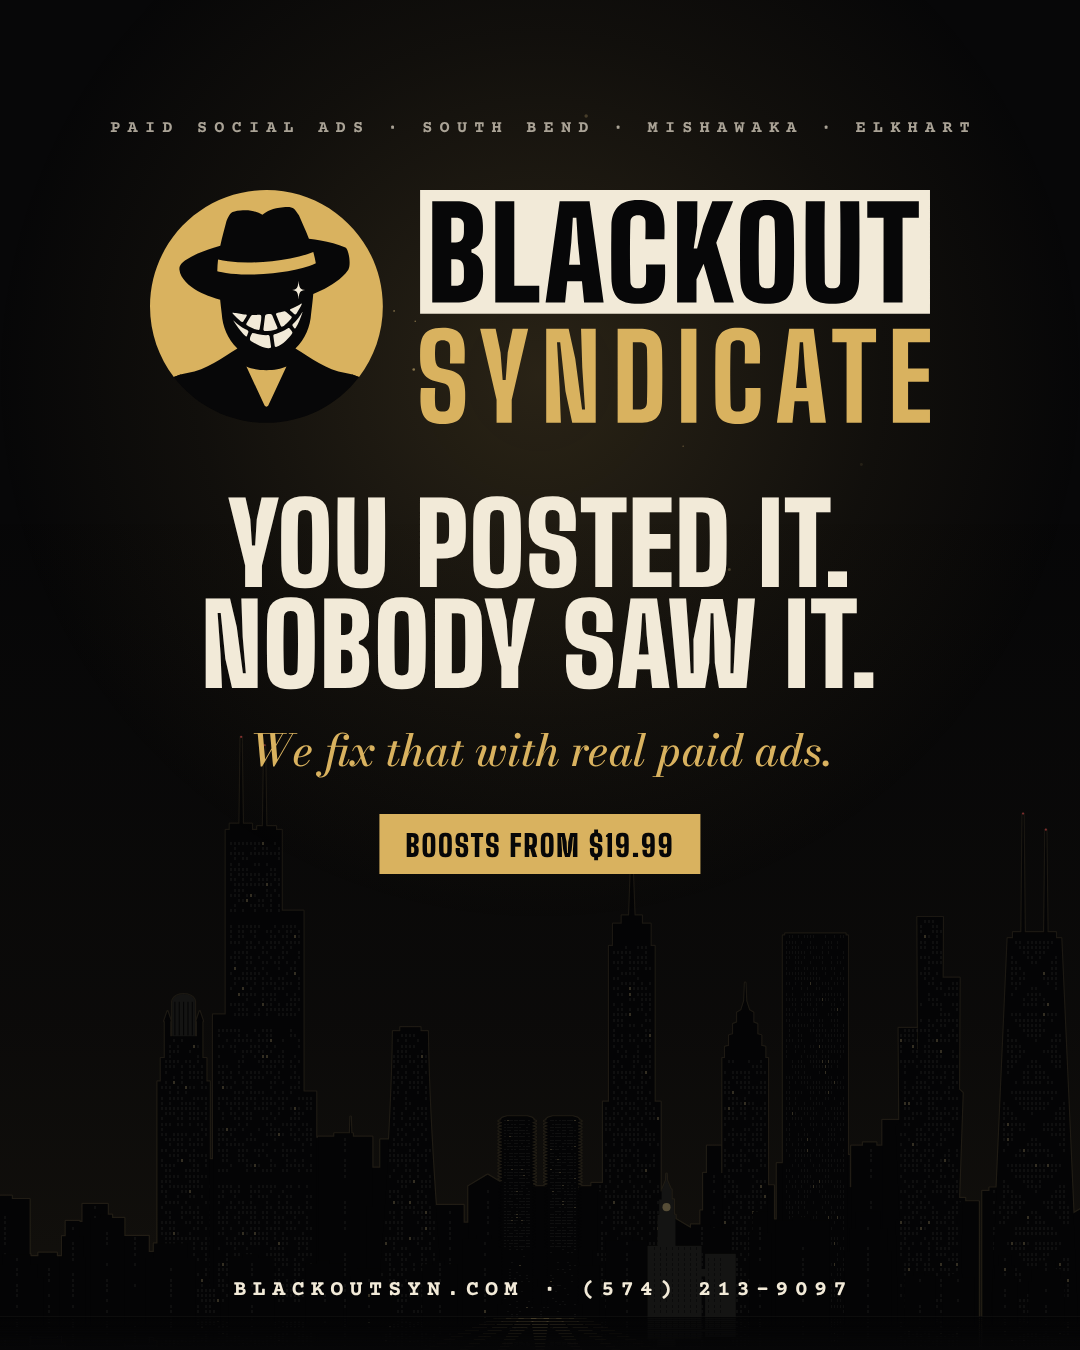
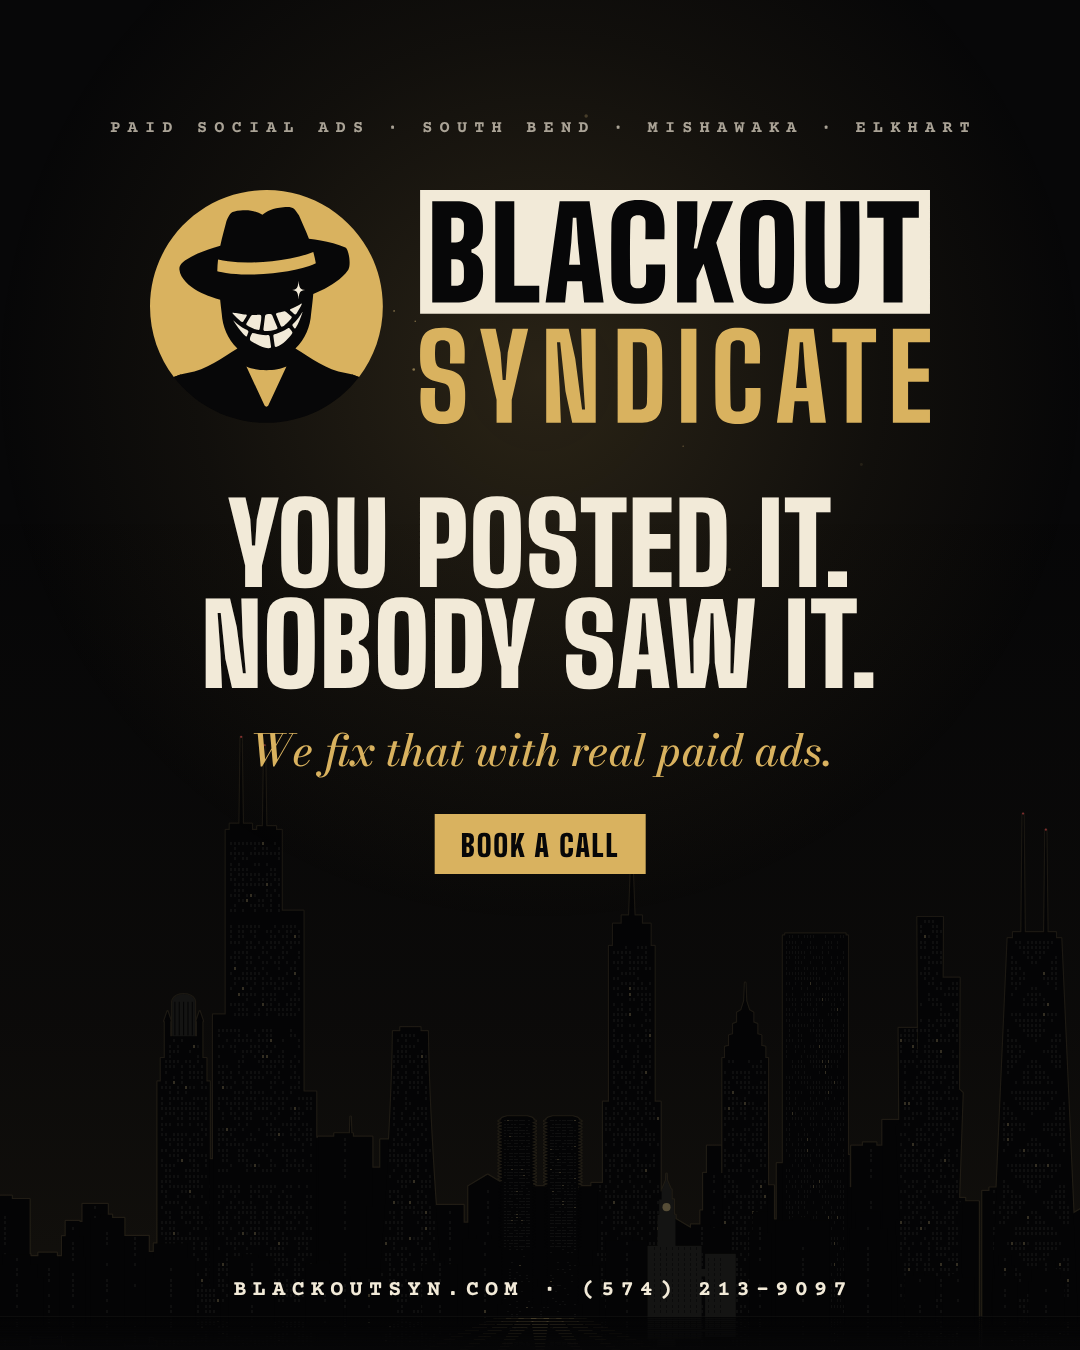
Ads without prices; config switches: showPrices (off) and donateUrl (Washington trip)
Claude-Session: https://claude.ai/code/session_01YDn6QEUYHpeV8NqCVCEGRV

Changed region(s): [[0.3361, 0.5911, 0.6722, 0.6533]]

diff --git a/brand/ads/X-AD-COPY.md b/brand/ads/X-AD-COPY.md
@@ -10,7 +10,7 @@ Destination (UTM tags; X adds twclid on its own, and the site passes both to eve
 - Spark offer: https://www.blackoutsyn.com/packages/spark.html?utm_source=x&utm_medium=paid&utm_campaign=launch_nov
 - Not sure what they need: https://www.blackoutsyn.com/packages.html?utm_source=x&utm_medium=paid&utm_campaign=launch_nov#match
 
-Website card headline (70 max): Get seen in South Bend. Boosts from $19.99.
+Website card headline (70 max): Get seen in South Bend. Real ads, real people.
 Button: Learn more  (or Book now when sending people to the calendar)
 Conversion: Lead (tw-rhx35-rid9b), fires on the thank-you page after a form send.
 
@@ -19,16 +19,16 @@ Conversion: Lead (tw-rhx35-rid9b), fires on the thank-you page after a form send
 A. Shops
 You posted it. Nobody saw it.
 Blackout Syndicate runs real paid ads for South Bend shops, creators and streamers. Real people, no bots.
-Boosts from $19.99. Call or text (574) 213-9097.
+Book a call or call/text (574) 213-9097.
 
-B. Price first
-$19.99 gets your post in front of real people near you, through the platform's own ad tools.
+B. Straight talk
+We put your post in front of real people near you, through the platform's own ad tools.
 No bots. No fake followers. No contract on boosts.
 South Bend · Mishawaka · Elkhart
 
 C. Creators and streamers
 Streaming to an empty chat?
 We run real paid ads that send new people to your channel, Twitch included.
-Boosts from $19.99. Real people. No bots.
+Book a call. Real people. No bots.
 
-Rules: prices from the site only; no promised numbers of views, likes or followers (the landing pages carry the results line); business phone (574) 213-9097 only.
+Rules: no prices in ads while the site hides them (config.showPrices false); no promised numbers of views, likes or followers (the landing pages carry the results line); business phone (574) 213-9097 only.
